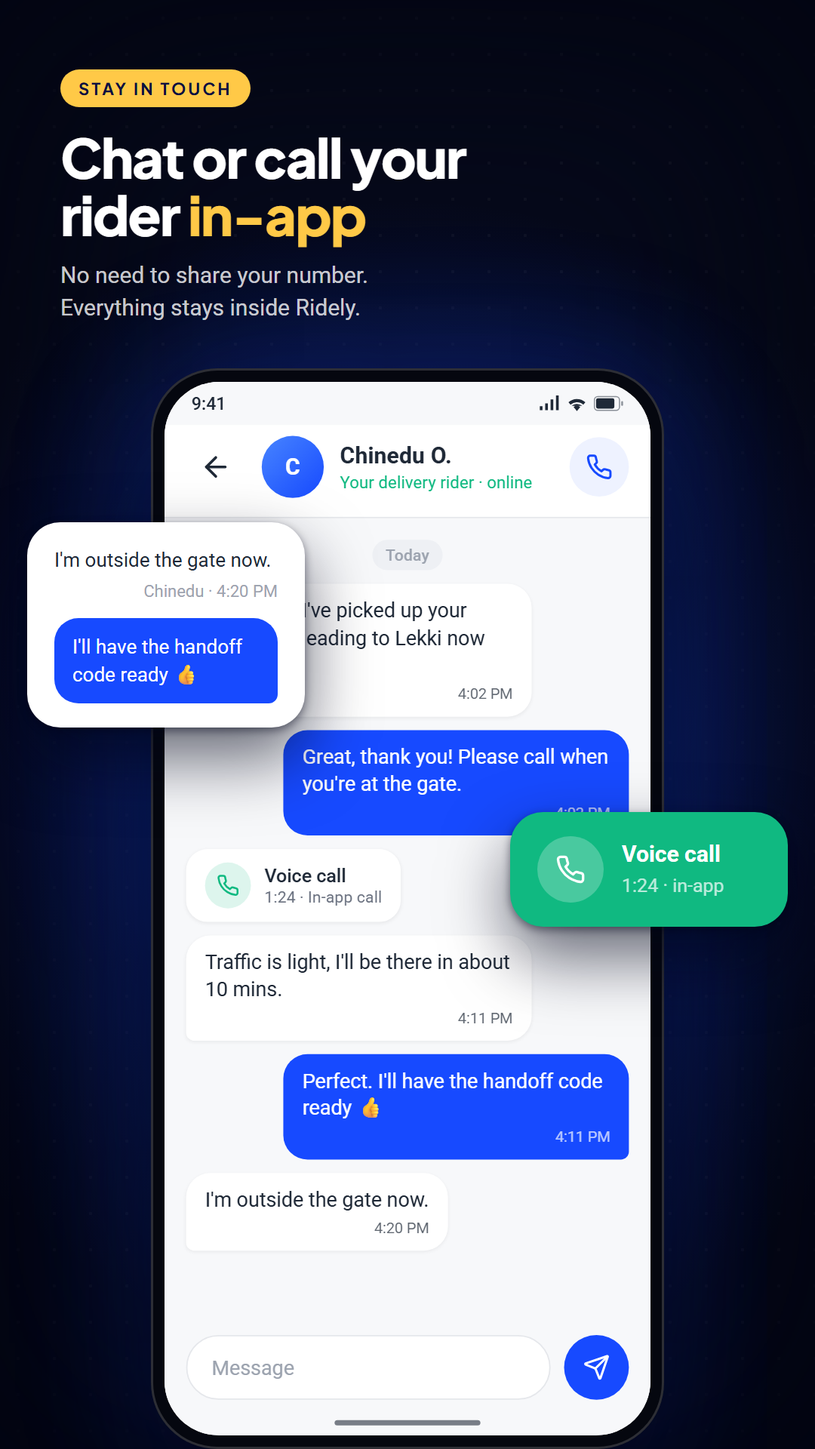
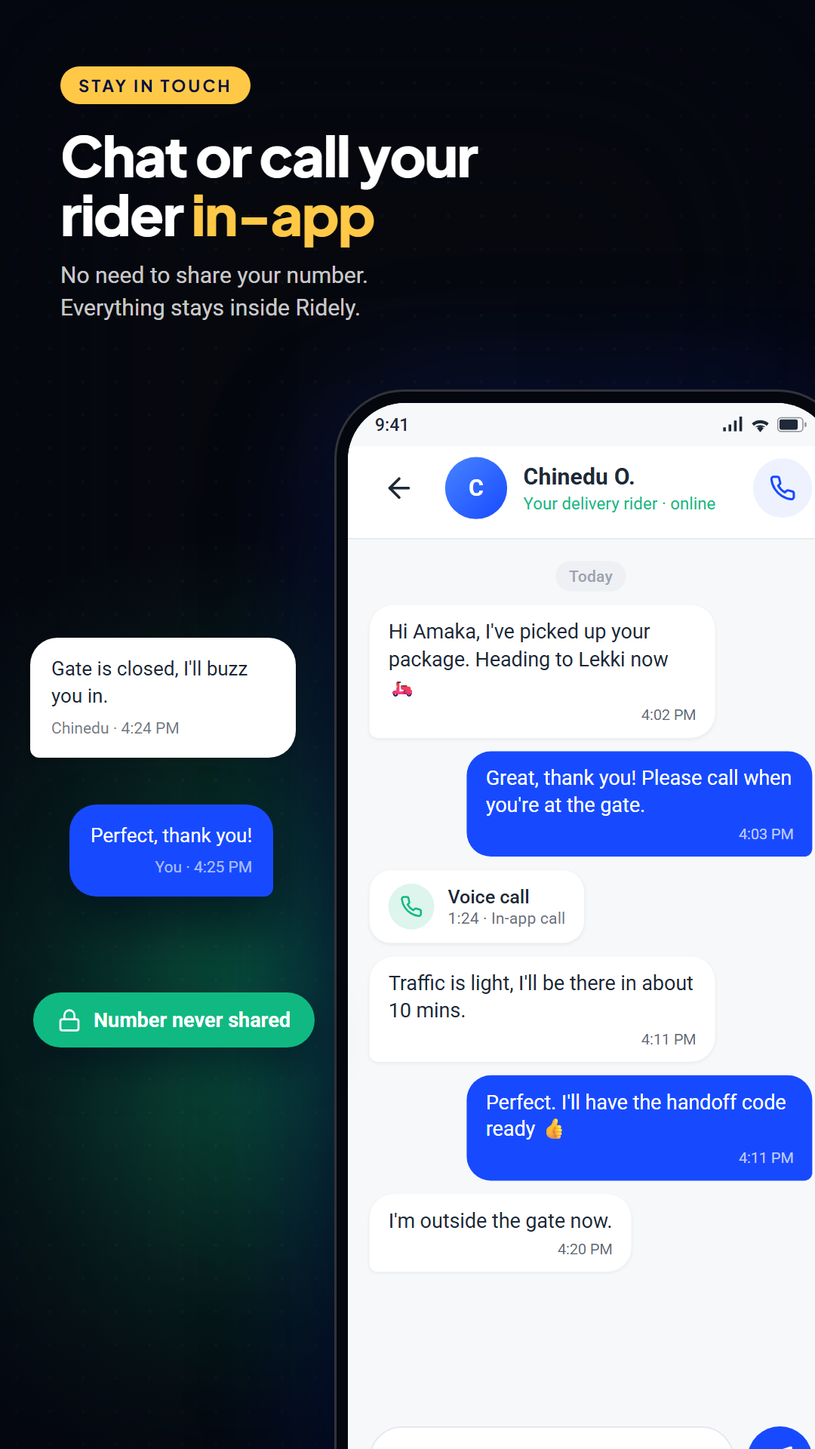
Give each store screenshot its own composition
The six phone shots were near-clones: same centred device, same two
floating cards mirrored either side. They now each pick a ground, a device
placement, a tilt and a decor set, so the set reads as six deliberate
shots rather than one design repeated.

- per-shot grounds (brand blue, near-black, navy, green) plus halos, arcs,
  a dot grid and a vignette, replacing the single ::before/::after backdrop
- devices sit off-edge, tilted or centred; two new 3D tilt variants
- new decor primitives: chat bubbles, pill flags and set-type stats
- shot 02 draws the delivery route as an SVG behind the device
- tablet shots inherit their phone stage's copy, ground and decor via a
  `base:` key, then override only device geometry
- feature graphic gains a rider silhouette and a turned device

Drop the CSS the old card system left behind (f-blue, f-ico, f-value,
f-label, f-chip, f-digits, f-digit, ghost-type) and a redundant tablet
device assignment. Re-rendered all 11 PNGs; output is byte-identical to
the cleanup, confirming the removed rules were unreferenced.

diff --git a/store/play/templates/store-art.html b/store/play/templates/store-art.html
@@ -35,20 +35,28 @@
   body { font-family: Roboto, 'Segoe UI', system-ui, sans-serif; -webkit-font-smoothing: antialiased; }
 
   /* ---------- Marketing stage ----------
-     Flat saturated ground, one bright device, cards floating around it. */
-  .canvas { position: relative; width: 100vw; height: 100vh; overflow: hidden; background: #06091A; color: #fff; }
-  .canvas::before { /* brand glow sitting behind the device */
-    content: ''; position: absolute; left: 50%; top: 54%; width: 780px; height: 780px; margin: -390px 0 0 -390px;
-    background: radial-gradient(circle, rgba(23,74,255,.60) 0%, rgba(23,74,255,.20) 40%, rgba(6,9,26,0) 70%);
-  }
-  .canvas::after { /* faint dot grid, then a vignette to sink the edges */
-    content: ''; position: absolute; inset: 0;
-    background-image: radial-gradient(rgba(255,255,255,.055) 1px, transparent 1.3px);
-    background-size: 24px 24px;
-    -webkit-mask-image: radial-gradient(64% 46% at 50% 46%, transparent 0%, #000 100%);
-    mask-image: radial-gradient(64% 46% at 50% 46%, transparent 0%, #000 100%);
-    box-shadow: inset 0 0 210px 48px rgba(3,5,18,.9);
-  }
+     Each shot picks its own saturated ground, device placement and decor, so the
+     six read as a set rather than six clones. */
+  .canvas { position: relative; width: 100vw; height: 100vh; overflow: hidden; background: #06091A; color: #fff; perspective: 1700px; }
+  .bg { position: absolute; inset: 0; z-index: 0; overflow: hidden; }
+  .g-blue  .bg { background: #174AFF; }
+  .g-ink   .bg { background: #07090F; }
+  .g-navy  .bg { background: #0B1040; }
+  .g-green .bg { background: #0A3D2C; }
+  /* soft brand light sitting behind the device */
+  .halo { position: absolute; border-radius: 50%; }
+  .halo-blue { background: radial-gradient(circle, rgba(71,132,255,.55) 0%, rgba(71,132,255,.16) 42%, rgba(6,9,26,0) 70%); }
+  .halo-green { background: radial-gradient(circle, rgba(16,185,129,.42) 0%, rgba(16,185,129,.12) 42%, rgba(6,9,26,0) 70%); }
+  .dots { position: absolute; inset: 0; background-image: radial-gradient(rgba(255,255,255,.09) 1px, transparent 1.3px); background-size: 22px 22px; }
+  .vignette { position: absolute; inset: 0; box-shadow: inset 0 0 200px 44px rgba(3,5,18,.55); }
+  /* big flat shapes on the ground */
+  .arc { position: absolute; border-radius: 50%; }
+  .arc-amber { background: var(--accent); }
+  .arc-outline { border: 3px solid rgba(255,255,255,.22); background: none; }
+  .stat-type { position: absolute; }
+  .stat-type .n { font: 800 54px/1 'Plus Jakarta Sans', sans-serif; letter-spacing: -.035em; }
+  .stat-type .l { font: 700 14px/1.3 'Plus Jakarta Sans', sans-serif; letter-spacing: .1em; text-transform: uppercase; margin-top: 8px; }
+  .route-line { position: absolute; inset: 0; width: 100%; height: 100%; }
   .copy { position: absolute; z-index: 8; padding: 0 28px; }
   .copy.center { left: 0; right: 0; text-align: center; }
   .copy.left { left: 40px; right: auto; padding: 0; text-align: left; }
@@ -68,37 +76,38 @@
 
   /* ---------- Device ---------- */
   .device {
-    position: absolute; left: 50%; transform: translateX(-50%); z-index: 2;
-    background: #05070F; padding: 9px; border-radius: 44px;
-    box-shadow: 0 0 0 1.5px rgba(255,255,255,.16) inset, 0 44px 84px rgba(2,5,25,.8), 0 0 90px rgba(23,74,255,.3);
+    position: absolute; z-index: 2; background: #05070F; padding: 9px; border-radius: 46px;
+    box-shadow: 0 0 0 1.5px rgba(255,255,255,.18) inset, 0 44px 84px rgba(2,5,25,.78), 0 0 90px rgba(23,74,255,.22);
   }
   .device.tablet { border-radius: 30px; padding: 14px; }
-  .viewport { position: relative; overflow: hidden; border-radius: 36px; background: var(--bg); }
+  /* tilted variants: the device yaws off-axis so it reads as a real object */
+  .device.turn { transform: perspective(1500px) rotateY(19deg) rotateZ(-2deg); }
+  .device.turn-hard { transform: perspective(1400px) rotateY(26deg) rotateX(3deg) rotateZ(-2.5deg); }
+  .viewport { position: relative; overflow: hidden; border-radius: 38px; background: var(--bg); }
   .device.tablet .viewport { border-radius: 18px; }
   .screen { position: absolute; top: 0; left: 0; transform-origin: 0 0; overflow: hidden; background: var(--bg); color: var(--text); display: flex; flex-direction: column; }
   .raw { position: absolute; inset: 0; width: 100%; height: 100%; object-fit: cover; z-index: 50; }
 
+  /* ---------- Decor ---------- */
+  .bub { position: absolute; z-index: 9; max-width: 176px; padding: 12px 14px; border-radius: 18px; font: 400 13px/1.38 Roboto; box-shadow: 0 16px 34px rgba(2,5,25,.55); }
+  .bub.them { background: #fff; color: var(--text); border-bottom-left-radius: 6px; }
+  .bub.me { background: var(--primary); color: #fff; border-bottom-right-radius: 6px; }
+  .bub .tm { display: block; font-size: 10.5px; opacity: .62; margin-top: 5px; }
+  .bub.me .tm { text-align: right; }
+  .flag { position: absolute; z-index: 9; display: inline-flex; align-items: center; gap: 8px; border-radius: 999px; padding: 10px 16px; font: 700 13.5px Roboto; box-shadow: 0 12px 28px rgba(2,5,25,.5); }
+
   /* ---------- Floating cards ---------- */
   .float { position: absolute; z-index: 9; border-radius: 22px; box-shadow: 0 20px 44px rgba(2,5,25,.6), 0 2px 6px rgba(2,5,25,.45); }
   .f-white { background: #fff; color: var(--navy); }
-  .f-blue { background: var(--primary); color: #fff; }
   .f-amber { background: var(--accent); color: var(--navy); }
   .f-green { background: var(--success); color: #fff; }
   .f-pad { padding: 16px 18px; }
-  .f-ico { width: 40px; height: 40px; border-radius: 20px; display: grid; place-items: center; flex: none; }
-  .f-ico svg.i { width: 21px; height: 21px; }
   .f-title { font: 700 15px/1.25 Roboto; }
   .f-sub { font: 400 12.5px/1.35 Roboto; opacity: .72; margin-top: 3px; }
-  .f-value { font: 800 26px/1 Roboto; letter-spacing: -.02em; }
-  .f-label { font: 500 12px Roboto; opacity: .72; margin-top: 4px; }
   .f-row { display: flex; align-items: center; gap: 12px; }
   .f-col { display: flex; flex-direction: column; }
-  /* handoff code shown as four blocks, matching app/tracking.tsx */
-  .f-digits { display: flex; gap: 7px; margin-top: 12px; }
-  .f-digit { width: 38px; height: 46px; border-radius: 11px; background: var(--navy); color: #fff; display: grid; place-items: center; font: 800 24px Roboto; }
   .f-dot { width: 44px; height: 44px; border-radius: 22px; display: grid; place-items: center; flex: none; }
   .f-dot svg.i { width: 20px; height: 20px; }
-  .f-chip { display: inline-flex; align-items: center; gap: 7px; border-radius: 999px; padding: 9px 15px; font: 700 13.5px Roboto; }
 
   /* ---------- Android chrome ---------- */
   .statusbar { height: 32px; flex: none; display: flex; align-items: center; justify-content: space-between; padding: 0 20px; font: 500 13px Roboto; color: var(--text); position: relative; z-index: 5; }
@@ -291,7 +300,7 @@
   .feature h1 { position: absolute; left: 34px; top: 96px; width: 230px; font: 800 29px/1.08 'Plus Jakarta Sans', sans-serif; letter-spacing: -.02em; }
   .feature h1 em { font-style: normal; color: var(--accent); }
   .feature p { position: absolute; left: 34px; top: 170px; width: 205px; font: 400 12.5px/1.45 Roboto; color: rgba(255,255,255,.85); }
-  .feature .rider { position: absolute; left: 272px; bottom: -6px; height: 196px; filter: drop-shadow(0 14px 18px rgba(2,6,30,.45)); }
+  .feature .rider { position: absolute; left: 244px; bottom: -4px; height: 168px; filter: drop-shadow(0 12px 16px rgba(2,6,30,.5)); }
 </style>
 </head>
 <body>
@@ -559,124 +568,138 @@ const SCREENS = {
 };
 
 // ---------------------------------------------------------------- shots
-// size: CSS canvas (rendered at 2x). device: logical screen size in dp and on-canvas width.
+// Six different compositions, not six variations on one. Each shot names its
+// ground, where the device sits, whether it is angled or cropped off-frame, and
+// what decor it gets. Copy is lifted from the screens the device is showing.
 const LAYOUT = {
-  phone:    { devW: 340, cardW: 184, margin: 18, devTop: 244, copyTop: 46, copyW: 280, headW: 440, headFont: 36, subFont: 15 },
-  tablet7:  { devW: 480, cardW: 212, margin: 16, devTop: 250, copyTop: 58, copyW: 340, headW: 480, headFont: 38, subFont: 17, tablet: true },
-  tablet10: { devW: 640, cardW: 264, margin: 24, devTop: 396, copyTop: 88, copyW: 460, headW: 560, headFont: 44, subFont: 21, tablet: true },
+  phone:    { devW: 340, cardW: 186, margin: 18, copyTop: 44, copyW: 288, headW: 452, headFont: 37, subFont: 15 },
+  tablet7:  { devW: 470, cardW: 214, margin: 16, copyTop: 56, copyW: 350, headW: 492, headFont: 38, subFont: 17, tablet: true },
+  tablet10: { devW: 620, cardW: 262, margin: 24, copyTop: 84, copyW: 470, headW: 566, headFont: 44, subFont: 20, tablet: true },
 };
 
-// Cards float over the device edge. `y` is a fraction of canvas height.
-const card = (tone, side, y, body) => ({ tone, side, y, body });
-const L = (...c) => c.map(([tone, y, body]) => card(tone, 'l', y, body));
-const R = (...c) => c.map(([tone, y, body]) => card(tone, 'r', y, body));
-
-// Copy below is lifted from the screens themselves (app/(tabs)/index.tsx,
-// app/tracking.tsx, app/booking/pricing.tsx, app/(rider)/dashboard.tsx, app/chat.tsx).
+// `pos` is the device's centre as a fraction of canvas width, so one stage
+// composes on every size. Anything past ~0.85 runs the device off the edge.
+// `bleed` extends the device below the canvas so it never ends on a clean line.
 const SHOTS = {
+  // 01 — flat brand ground, device shoved off the right edge, no cards at all.
   'phone-01': {
-    size: [540, 960], kind: 'phone', screen: 'home', align: 'left',
+    size: [540, 960], kind: 'phone', screen: 'home', align: 'left', ground: 'blue',
     eyebrow: 'Book in seconds',
     headline: 'Send a package <em>across town</em>',
     sub: 'Pick a size, set two addresses and a nearby rider is on the way.',
-    floats: [
-      ...L(['f-white', 0.42, `<div class="f-row"><span class="f-ico" style="background:var(--primary);color:#fff">${ic('package')}</span>
-        <div class="f-col"><div class="f-title">Book Delivery</div><div class="f-sub">Medium package</div></div></div>
-        <div class="f-value" style="margin-top:14px;color:var(--primary)">₦4,200</div>
-        <div class="f-sub" style="margin-top:4px">14.00 km · 25 mins</div>`]),
-      ...R(['f-amber', 0.57, `<span class="f-ico" style="background:rgba(11,16,64,.12);color:var(--navy)">${ic('clock')}</span>
-        <div class="f-value" style="margin-top:12px;font-size:22px">12 mins</div>
-        <div class="f-label">Rider on the way</div>`]),
-    ],
+    device: { pos: 0.755, top: 250, tilt: null, bleed: 74 },
+    layers: `<div class="dots" style="opacity:.5"></div>
+      <div class="arc arc-amber" style="left:-130px;bottom:-150px;width:420px;height:420px"></div>
+      <div class="arc arc-outline" style="right:-90px;top:120px;width:300px;height:300px"></div>
+      <div class="vignette"></div>`,
+    // no decor: the home screen already says "RIDER ON THE WAY / Arriving in 12 mins"
+    decor: '',
   },
+
+  // 02 — dark stage, device turned away on the left, a drawn route behind it.
   'phone-02': {
-    size: [540, 960], kind: 'phone', screen: 'tracking', align: 'center',
+    size: [540, 960], kind: 'phone', screen: 'tracking', align: 'left', ground: 'ink',
     eyebrow: 'Live tracking',
     headline: 'Watch your rider <em>in real time</em>',
     sub: 'Route, trail and ETA update live as your package moves.',
-    floats: [
-      ...L(['f-green', 0.33, `<div class="f-row"><span class="f-ico" style="background:rgba(255,255,255,.24)">${ic('nav')}</span>
-        <div class="f-col"><div class="f-title">In Transit</div><div class="f-sub" style="color:#fff">ETA 12 mins</div></div></div>`]),
-      ...R(['f-white', 0.47, `<div class="f-row"><span class="f-dot" style="background:var(--primary);color:#fff;font:800 17px Roboto">C</span>
+    device: { pos: 0.295, top: 268, tilt: 'turn', bleed: 64 },
+    layers: `<svg class="route-line" viewBox="0 0 540 960" preserveAspectRatio="none">
+        <polyline points="540,120 430,190 470,300 350,352 392,470 250,520 280,640 120,700 160,820"
+          fill="none" stroke="rgba(23,74,255,.5)" stroke-width="7" stroke-linecap="round" stroke-linejoin="round"/>
+        <polyline points="540,120 430,190 470,300 350,352 392,470 250,520 280,640 120,700 160,820"
+          fill="none" stroke="rgba(120,170,255,.85)" stroke-width="2.5" stroke-linecap="round" stroke-linejoin="round"
+          stroke-dasharray="14 10"/>
+      </svg>
+      <div class="dots" style="opacity:.35"></div>
+      <div class="vignette"></div>`,
+    decor: `<div class="float f-pad f-white" style="right:20px;top:${0.62 * 960}px;width:180px">
+        <div class="f-row"><span class="f-dot" style="background:var(--primary);color:#fff;font:800 16px Roboto">C</span>
         <div class="f-col"><div class="f-title">Chinedu O.</div><div class="f-sub">LSD 482 KJ</div></div></div>
-        <div class="f-row" style="margin-top:13px;gap:6px"><span style="display:flex;color:#FFC947">${ic('star')}</span>
-        <span style="font:700 13.5px Roboto">4.9 · 214 trips</span></div>`]),
-    ],
+        <div class="f-row" style="margin-top:12px;gap:6px"><span style="display:flex;color:#FFC947">${ic('star')}</span>
+        <span style="font:700 13px Roboto">4.9 · 214 trips</span></div>
+      </div>`,
   },
+
+  // 03 — clean editorial shot: centred device, no decor, just the halo.
   'phone-03': {
-    size: [540, 960], kind: 'phone', screen: 'pricing', align: 'left',
+    size: [540, 960], kind: 'phone', screen: 'pricing', align: 'center', ground: 'navy',
     eyebrow: 'Upfront pricing',
     headline: 'Know the price <em>before you book</em>',
     sub: 'Pay by card through Paystack, or hand over cash at the door.',
-    floats: [
-      ...L(['f-white', 0.38, `<div class="f-row" style="justify-content:space-between"><span style="font:600 12.5px Roboto;opacity:.68">Total Cost</span>
-        <span class="f-chip" style="background:#DCFCE7;color:#047857;padding:6px 11px;font-size:12px">${ic('clock', 'width:14px;height:14px')}25 mins</span></div>
-        <div class="f-value" style="margin-top:10px;color:var(--primary)">₦4,200</div>
-        <div class="f-sub" style="margin-top:6px">₦300 × 14.00 km</div>`]),
-      ...R(['f-blue', 0.60, `<span class="f-ico" style="background:rgba(255,255,255,.2)">${ic('lock')}</span>
-        <div class="f-title" style="margin-top:12px">Secured by Paystack</div>
-        <div class="f-sub">Card, bank or cash on delivery</div>`]),
-    ],
+    device: { pos: 0.5, top: 262, tilt: null, bleed: 0 },
+    layers: `<div class="halo halo-blue" style="left:50%;top:62%;width:760px;height:760px;margin:-380px 0 0 -380px"></div>
+      <div class="dots" style="opacity:.3"></div>
+      <div class="vignette"></div>`,
+    decor: '',
   },
+
+  // 04 — money shot: green ground, big flat stat set in the type itself.
   'phone-04': {
-    size: [540, 960], kind: 'phone', screen: 'rider', align: 'center',
+    size: [540, 960], kind: 'phone', screen: 'rider', align: 'left', ground: 'green',
     eyebrow: 'Ride with Ridely',
     headline: 'Earn on <em>your own schedule</em>',
     sub: 'Go online, accept nearby jobs and watch your earnings grow.',
-    floats: [
-      ...L(['f-green', 0.34, `<div class="f-label" style="margin:0">Today's Earnings</div>
-        <div class="f-value" style="margin-top:8px">₦18,450</div>
-        <div class="f-row" style="margin-top:12px;gap:8px">${ic('truck', 'width:16px;height:16px')}<span style="font:500 12.5px Roboto;opacity:.88">6 deliveries</span></div>`]),
-      ...R(['f-blue', 0.52, `<div class="f-row" style="justify-content:space-between;align-items:flex-start">
-          <div class="f-col"><div class="f-sub" style="margin:0;color:#fff">New job nearby</div>
-          <div class="f-value" style="margin-top:6px;font-size:24px">₦3,500</div></div>
-          <span class="f-dot" style="background:var(--accent);color:var(--navy)">${ic('check')}</span></div>
-        <div class="f-sub" style="margin-top:10px;color:#fff">Victoria Island → Lekki · 14 km</div>`]),
-    ],
+    device: { pos: 0.745, top: 272, tilt: 'turn', bleed: 70 },
+    layers: `<div class="arc arc-outline" style="left:-120px;top:120px;width:340px;height:340px"></div>
+      <div class="dots" style="opacity:.4"></div>
+      <div class="vignette"></div>`,
+    decor: `<div class="stat-type" style="left:26px;top:${0.60 * 960}px;color:#FFC947">
+        <div class="l">Today's earnings</div>
+        <div class="n" style="margin-top:6px">₦18,450</div>
+        <div class="l" style="color:rgba(255,255,255,.72);letter-spacing:.02em;text-transform:none;font-weight:500;font-size:13.5px">6 deliveries today</div>
+      </div>
+      <span class="flag" style="left:26px;top:${0.435 * 960}px;background:var(--accent);color:var(--navy)">${ic('flame', 'width:17px;height:17px')}URGENT job · ₦3,500</span>`,
   },
+
+  // 05 — code is the hero: phone angled hard on the right, code card on the left.
   'phone-05': {
-    size: [540, 960], kind: 'phone', screen: 'handoff', align: 'center',
+    size: [540, 960], kind: 'phone', screen: 'handoff', align: 'left', ground: 'blue',
     eyebrow: 'Safe handoff',
     headline: 'A secret code for <em>every drop-off</em>',
     sub: 'Your package only changes hands for the person who booked it.',
-    floats: [
-      ...L(['f-amber', 0.58, `<span class="f-ico" style="background:rgba(11,16,64,.12);color:var(--navy)">${ic('pin')}</span>
-        <div class="f-value" style="margin-top:12px;font-size:21px">Rider nearby</div>
-        <div class="f-label">ETA 3 mins</div>`]),
-      ...R(['f-white', 0.40, `<div class="f-title" style="color:var(--primary);font-size:12.5px;letter-spacing:.09em;text-transform:uppercase">${ic('key', 'width:15px;height:15px;vertical-align:-2px')} Handoff code</div>
-        <div class="f-digits"><span class="f-digit">4</span><span class="f-digit">8</span><span class="f-digit">2</span><span class="f-digit">1</span></div>
-        <div class="f-sub" style="margin-top:12px">Share it only once the package is in your hands.</div>`]),
-    ],
+    device: { pos: 0.79, top: 250, tilt: 'turn-hard', bleed: 58 },
+    layers: `<div class="arc arc-amber" style="left:-190px;top:250px;width:440px;height:440px"></div>
+      <div class="dots" style="opacity:.45"></div>
+      <div class="vignette"></div>`,
+    decor: `<div class="float f-pad f-white" style="left:20px;top:${0.47 * 960}px;width:190px">
+        <span class="f-dot" style="background:#EEF2FF;color:var(--primary)">${ic('shield')}</span>
+        <div class="f-title" style="margin-top:12px">Code matched at drop-off</div>
+        <div class="f-sub" style="margin-top:7px">Your package is only released to the person who booked it.</div>
+      </div>`,
   },
+
+  // 06 — conversation escaping the screen: phone right, bubbles drifting out.
   'phone-06': {
-    size: [540, 960], kind: 'phone', screen: 'chat', align: 'left',
+    size: [540, 960], kind: 'phone', screen: 'chat', align: 'left', ground: 'ink',
     eyebrow: 'Stay in touch',
     headline: 'Chat or call your rider <em>in-app</em>',
     sub: 'No need to share your number. Everything stays inside Ridely.',
-    floats: [
-      ...L(['f-white', 0.36, `<div style="font:400 13px/1.4 Roboto;color:var(--text)">I'm outside the gate now.</div>
-        <div style="font:400 11px Roboto;color:var(--text3);margin-top:5px;text-align:right">Chinedu · 4:20 PM</div>
-        <div style="margin-top:11px;background:var(--primary);color:#fff;border-radius:16px 16px 6px 16px;padding:10px 12px;font:400 13px/1.4 Roboto">I'll have the handoff code ready 👍</div>`]),
-      ...R(['f-green', 0.56, `<div class="f-row"><span class="f-dot" style="background:rgba(255,255,255,.24)">${ic('phone')}</span>
-        <div class="f-col"><div class="f-title">Voice call</div><div class="f-sub" style="color:#fff">1:24 · in-app</div></div></div>`]),
-    ],
+    device: { pos: 0.725, top: 258, tilt: null, bleed: 60 },
+    layers: `<div class="halo halo-green" style="left:30%;top:70%;width:640px;height:640px;margin:-320px 0 0 -320px"></div>
+      <div class="dots" style="opacity:.3"></div>
+      <div class="vignette"></div>`,
+    decor: `<div class="bub them" style="left:20px;top:${0.44 * 960}px">Gate is closed, I'll buzz you in.<span class="tm">Chinedu · 4:24 PM</span></div>
+      <div class="bub me" style="left:46px;top:${0.555 * 960}px">Perfect, thank you!<span class="tm">You · 4:25 PM</span></div>
+      <span class="flag" style="left:22px;top:${0.685 * 960}px;background:var(--success);color:#fff">${ic('lock', 'width:16px;height:16px')}Number never shared</span>`,
   },
-  'tablet7-01': { size: [600, 960], kind: 'tablet7', screen: 'home', align: 'left' },
-  'tablet7-02': { size: [600, 960], kind: 'tablet7', screen: 'tracking', align: 'center' },
-  'tablet10-01': { size: [800, 1280], kind: 'tablet10', screen: 'home', align: 'left' },
-  'tablet10-02': { size: [800, 1280], kind: 'tablet10', screen: 'tracking', align: 'center' },
+
+  'tablet7-01': { size: [600, 960], kind: 'tablet7', screen: 'home', align: 'left', base: 'phone-01' },
+  'tablet7-02': { size: [600, 960], kind: 'tablet7', screen: 'tracking', align: 'left', base: 'phone-02' },
+  'tablet10-01': { size: [800, 1280], kind: 'tablet10', screen: 'home', align: 'left', base: 'phone-01' },
+  'tablet10-02': { size: [800, 1280], kind: 'tablet10', screen: 'tracking', align: 'left', base: 'phone-02' },
   feature: { size: [512, 250], feature: true },
 };
 
-// The tablet shots carry the same cards as their phone counterparts.
-SHOTS['tablet7-01'].floats = SHOTS['phone-01'].floats;
-SHOTS['tablet7-02'].floats = SHOTS['phone-02'].floats;
-SHOTS['tablet10-01'].floats = SHOTS['phone-01'].floats;
-SHOTS['tablet10-02'].floats = SHOTS['phone-02'].floats;
-for (const id of ['tablet7-01', 'tablet7-02', 'tablet10-01', 'tablet10-02']) {
-  SHOTS[id].eyebrow = SHOTS[id.replace('tablet7-', 'phone-').replace('tablet10-', 'phone-')].eyebrow;
-  SHOTS[id].headline = SHOTS[id.replace('tablet7-', 'phone-').replace('tablet10-', 'phone-')].headline;
-  SHOTS[id].sub = SHOTS[id.replace('tablet7-', 'phone-').replace('tablet10-', 'phone-')].sub;
+// Tablet shots inherit their phone stage's copy, ground and decor; only the
+// device geometry and type sizes differ.
+for (const id of Object.keys(SHOTS)) {
+  const s = SHOTS[id];
+  if (!s.base) continue;
+  const b = SHOTS[s.base];
+  Object.assign(s, { ground: b.ground, eyebrow: b.eyebrow, headline: b.headline, sub: b.sub,
+    layers: b.layers, decor: b.decor });
+  // tablets sit near centre and never run off an edge, whatever the phone did
+  s.device = { pos: 0.52, top: s.kind === 'tablet10' ? 0.30 * 1280 : 0.29 * 960, tilt: null, bleed: 0 };
 }
 
 function renderShot(id) {
@@ -689,20 +712,20 @@ function renderShot(id) {
       <img class="wordmark" src="../../../assets/images/logo-wordmark-dark.png" alt="Ridely">
       <h1>Deliveries, <em>made simple.</em></h1>
       <p>Book a package, track your rider live and pay securely. Or hop on as a rider and earn.</p>
-      <div class="float f-pad f-amber" style="left:300px;top:22px;width:112px">
+      <img class="rider" src="rider.png" alt="">
+      <div class="float f-pad f-amber" style="left:238px;top:12px;width:120px">
         <div style="font:800 19px Roboto">₦4,200</div>
-        <div style="font:500 11px Roboto;opacity:.7;margin-top:3px">14.00 km · 25 min</div>
+        <div style="font:500 11px Roboto;opacity:.7;margin-top:3px">14 km · 25 min</div>
       </div>
-      <div class="float f-pad f-green" style="left:286px;top:150px;width:120px">
+      <div class="float f-pad f-green" style="left:344px;top:166px;width:122px">
         <div style="font:700 13px Roboto">In Transit</div>
         <div style="font:500 11px Roboto;color:#fff;opacity:.85;margin-top:3px">ETA 12 mins</div>
       </div>
-      <img class="rider" src="rider.png" alt="">
-      <div class="device" style="left:auto;right:22px;transform:none;top:20px;padding:5px;border-radius:26px">
-        <div class="viewport" style="width:138px;height:298px;border-radius:21px"><div class="screen" id="scr"></div></div>
+      <div class="device turn" style="left:auto;right:6px;top:10px;padding:5px;border-radius:26px">
+        <div class="viewport" style="width:130px;height:280px;border-radius:21px"><div class="screen" id="scr"></div></div>
       </div>
     </div>`;
-    mountScreen('tracking', 138, 298, 360);
+    mountScreen('tracking', 130, 280, 360);
     return;
   }
 
@@ -711,24 +734,23 @@ function renderShot(id) {
   const bezel = L.tablet ? 28 : 18;
   const viewW = L.devW - bezel;
   const scale = viewW / (L.tablet ? L.devW : 360);
-  const viewH = H - L.devTop - bezel;
+  const D = shot.device;
+  const devLeft = D.pos * W - L.devW / 2;   // pos is the device centre
+  const viewH = H - D.top - bezel + D.bleed;
   const logicalH = Math.round(viewH / scale);
 
-  root.innerHTML = `<div class="canvas">
+  root.innerHTML = `<div class="canvas g-${shot.ground}">
+    <div class="bg">${shot.layers}</div>
     <div class="copy ${shot.align}" style="top:${L.copyTop}px${shot.align === 'left' ? `;width:${L.copyW}px` : ''}">
       <span class="eyebrow">${shot.eyebrow}</span>
       <div class="headline" style="font-size:${L.headFont}px;max-width:${L.headW}px">${shot.headline}</div>
       <div class="sub" style="font-size:${L.subFont}px">${shot.sub}</div>
     </div>
-    <div class="device${L.tablet ? ' tablet' : ''}" style="top:${L.devTop}px;width:${L.devW}px">
+    <div class="device${L.tablet ? ' tablet' : ''}${D.tilt ? ' ' + D.tilt : ''}"
+         style="left:${devLeft}px;top:${D.top}px;width:${L.devW}px">
       <div class="viewport" style="width:${viewW}px;height:${viewH}px"><div class="screen" id="scr"></div></div>
     </div>
-    <div class="floats">
-      ${(shot.floats || []).map((f) => `<div class="float f-pad ${f.tone}" style="
-          ${f.side === 'l' ? `left:${L.margin}px` : `right:${L.margin}px`};
-          top:${Math.round(f.y * H - (L.tablet ? 40 : 0))}px;
-          width:${L.cardW}px">${f.body}</div>`).join('')}
-    </div>
+    ${shot.decor}
   </div>`;
   mountScreen(shot.screen, viewW, viewH, L.tablet ? L.devW : 360, logicalH);
 }
